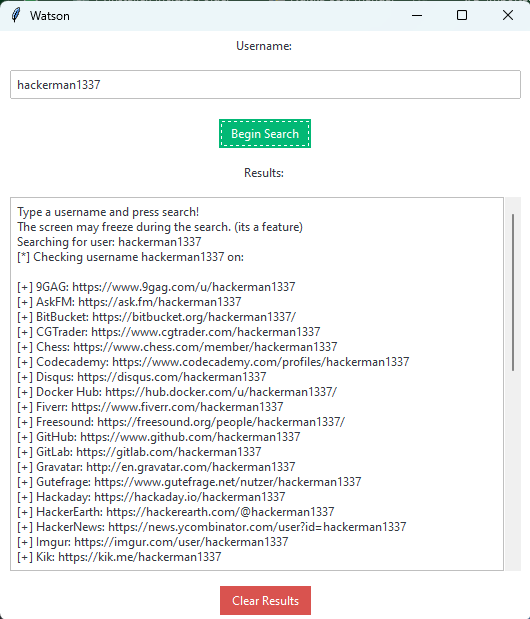
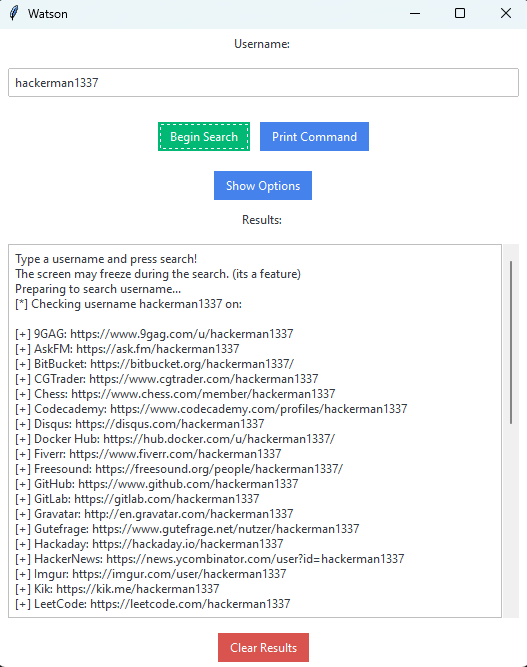
Adding Checkbox for options
- Added options
- Organized main file into class to be neat
- ate more cake

diff --git a/watson.py b/watson.py
@@ -4,6 +4,8 @@ from ttkbootstrap.constants import *
 import sys
 import os
 from console import *
+from options import *
+import flags as flags
 
 #folder_path = os.path.abspath(os.path.join(os.path.dirname(__file__), 'sherlock/sherlock'))
 folder_path = os.path.join(sys._MEIPASS, 'sherlock/sherlock') if hasattr(sys, '_MEIPASS') else 'sherlock/sherlock'
@@ -11,30 +13,67 @@ sys.path.append(folder_path)
 import sherlock
 from result import QueryResult
 sys.path.remove(folder_path)
-#print(dir(sherlock))  # Print the attributes of the module
+
+class Watson:
+    def __init__(self, window):
+        self.window = window
+        self.window.title("Watson")
+
+        self.build_gui()
+
+    def prepare_command(self):
+        username = self.username.get()
+        args = ["sherlock", username]
+        for flag in flags.flags:
+            if self.option_values[flag["name"]].get():
+                args.append(flag["name"])
+        sys.argv = args
+
+    def print_command(self):
+        self.prepare_command()
+        print("Command: ")
+        print(" ".join(sys.argv))
+        #print("Why are you even here?")
+
+    def search_user(self):
+        print("Preparing to search username...")
+        self.prepare_command()
+        sherlock.main()
+
+    def build_gui(self):
+        self.title = ttk.Label(self.window, text="Username: ")
+        self.title.pack(pady=5)
+
+        self.username = ttk.Entry(self.window)
+        self.username.pack(pady=10, padx=10, fill="x")
+
+        self.button_frame = ttk.Frame(self.window)
+        self.button_frame.pack(pady=5)
+
+        self.search_button = ttk.Button(self.button_frame, text="Begin Search", bootstyle=SUCCESS, command=self.search_user)
+        self.search_button.pack(padx=5, pady=10, side="left")
+
+        self.print_button = ttk.Button(self.button_frame, text="Print Command", bootstyle=PRIMARY, command=self.print_command)
+        self.print_button.pack(padx=5, pady=10, side="right")
+
+        self.options = Options(self.window)
+        self.option_values = {}
+        self.option_params = {}
+        for flag in flags.flags:
+            self.option_values[flag["name"]] = tk.BooleanVar()
+            self.option_params[flag["name"]] = None
+            # If the flag has a text field, create a StringVar for it
+            if(flag.get("text")):
+                self.option_params[flag["name"]] = tk.StringVar()
+            self.options.create_option(flag, self.option_values[flag["name"]], self.option_params[flag["name"]])
+        self.options.add_helper("Note: Not all options are compatible with each other. Please use them at your own risk.")
+
+        self.console = ConsoleApp(self.window)
+
 
 root = tk.Tk()
-
 root.title("Watson")
 
-label = ttk.Label(root, text="Username: ")
-label.pack(pady=5)
-
-entry = ttk.Entry(root)
-entry.pack(pady=10, padx=10, fill="x")
-
-def search_user():
-    username = entry.get()
-    print("Searching for user: " + username)
-    sys.argv = ['sherlock', username]
-    sherlock.main()
-
-button = ttk.Button(root, text="Begin Search", bootstyle=SUCCESS, command=search_user)
-button.pack(padx=5, pady=10)
-
-output = ttk.Label(root, text="Results: ")
-output.pack(pady=5)
-
-app = ConsoleApp(root)
+watson = Watson(root)
 
 root.mainloop()

diff --git a/flags.py b/flags.py
@@ -1,0 +1,58 @@
+flags = [
+    {
+        "name": "--csv",
+        "description": "Create Comma-Separated Values (CSV) File.",
+    },{
+        "name": "--xlsx",
+        "description": "Create the standard file for the modern Microsoft Excel spreadsheet (xslx)."
+    }, {
+        "name": "--print-all",
+        "description": "Output sites where the username was not found."
+    }, {
+        "name": "--print-found",
+        "description": "Output sites where the username was found."
+    }, {
+        "name": "--folderoutput",
+        "description": "If using multiple usernames, the output of the results will be saved to this folder.",
+        "text": True,
+        "text_label": "Folder Name:"
+    }, {
+        "name": "--output",
+        "description": "If using single username, the output of the result will be saved to this file.",
+        "text": True,
+        "text_label": "File Name:"
+    }, {
+        "name": "--no-color",
+        "description": "Don't color terminal output",
+    }, {
+        "name": "--browse",
+        "description": "Browse to all results on default browser."
+    }, {
+        "name": "--local",
+        "description": "Force the use of the local data.json file."
+    }, {
+        "name": "--nsfw",
+        "description": "Include checking of NSFW sites from default list."
+    }, {
+        "name": "--tor",
+        "description": "Make requests over Tor; increases runtime; requires Tor to be installed and in system path."
+    }, {
+        "name": "--unique-tor",
+        "description": "Make requests over Tor with new Tor circuit after each request; increases runtime; requires Tor to be installed and in system path."
+    }, {
+        "name": "--proxy",
+        "description": "Make requests over a proxy. e.g. socks5://127.0.0.1:1080",
+        "text": True,
+        "text_label": "Proxy URL:"
+    }, {
+        "name": "--json",
+        "description": "Load data from a JSON file or an online, valid, JSON file.",
+        "text": True,
+        "text_label": "Json:"
+    }, {
+        "name": "--timeout",
+        "description": "Time (in seconds) to wait for response to requests (Default: 60)",
+        "text": True,
+        "text_label": "Timeout:"
+    }
+]

diff --git a/options.py b/options.py
@@ -1,0 +1,53 @@
+import tkinter as tk
+import ttkbootstrap as ttk
+from ttkbootstrap.constants import *
+
+class Options:
+    def __init__(self, root):
+        self.root = root
+
+        self.toggle_button = ttk.Button(self.root, text="Hide Options", command=self.toggle_options, bootstyle=DANGER)
+        self.toggle_button.pack(pady=5)
+        # Create a frame for the options
+        self.showing = True
+        self.options_frame = ttk.Frame(root)
+        self.options_frame.pack(side="right", padx=10, pady=10, fill="y")
+        
+        # Create Title
+        self.title = ttk.Label(self.options_frame, text="Options")
+        self.title.pack(pady=5)
+
+    def toggle_options(self):
+        if self.showing:
+            self.hide_options()
+            self.toggle_button.config(text="Show Options")
+            self.toggle_button.config(bootstyle=PRIMARY)
+            self.showing = False
+        else:
+            self.show_options()
+            self.toggle_button.config(text="Hide Options")
+            self.toggle_button.config(bootstyle=DANGER)
+            self.showing = True
+    
+    def hide_options(self):
+        self.options_frame.pack_forget()
+
+    def show_options(self):
+        self.options_frame.pack(side="right", padx=10, pady=10, fill="y",after=self.toggle_button)
+
+    # creates checkbox
+    def create_option(self, flag, variable, text_variable=None):
+        option = ttk.Checkbutton(self.options_frame, text=flag["description"], variable=variable, bootstyle="round-toggle")
+        option.pack(pady=5,fill="x")
+        if flag.get("text"):
+            frame = ttk.Frame(self.options_frame)
+            frame.pack(pady=5,fill="x")
+            text = ttk.Label(frame, text=flag["text_label"])
+            text.grid(row=0,column=0,padx=5)
+            entry = ttk.Entry(frame, textvariable=text_variable)
+            entry.grid(row=0,column=1,padx=5, columnspan=2)
+        return option
+    
+    def add_helper(self, text):
+        helper = ttk.Label(self.options_frame, text=text)
+        helper.pack(pady=5,fill="x")

diff --git a/console.py b/console.py
@@ -21,11 +21,14 @@ class TextRedirector:
 
 
 class ConsoleApp:
-    def __init__(self, master):
-        self.master = master
+    def __init__(self, window):
+        self.window = window
+        
+        self.title = ttk.Label(self.window, text="Results: ")
+        self.title.pack(pady=5)
 
         # Create a Text widget for console output
-        self.console_output = scrolledtext.ScrolledText(master, wrap=tk.WORD)
+        self.console_output = scrolledtext.ScrolledText(self.window, wrap=tk.WORD)
         self.console_output.pack(padx=10, pady=10, fill="both")
 
         # Redirect stdout to the Text widget
@@ -36,5 +39,5 @@ class ConsoleApp:
         print("Type a username and press search!")
         print("The screen may freeze during the search. (its a feature)")
         
-        clear_button = ttk.Button(master, text="Clear Results", command=self.text_redirector.clear_console, bootstyle=DANGER)
+        clear_button = ttk.Button(self.window, text="Clear Results", command=self.text_redirector.clear_console, bootstyle=DANGER)
         clear_button.pack(pady=5)
